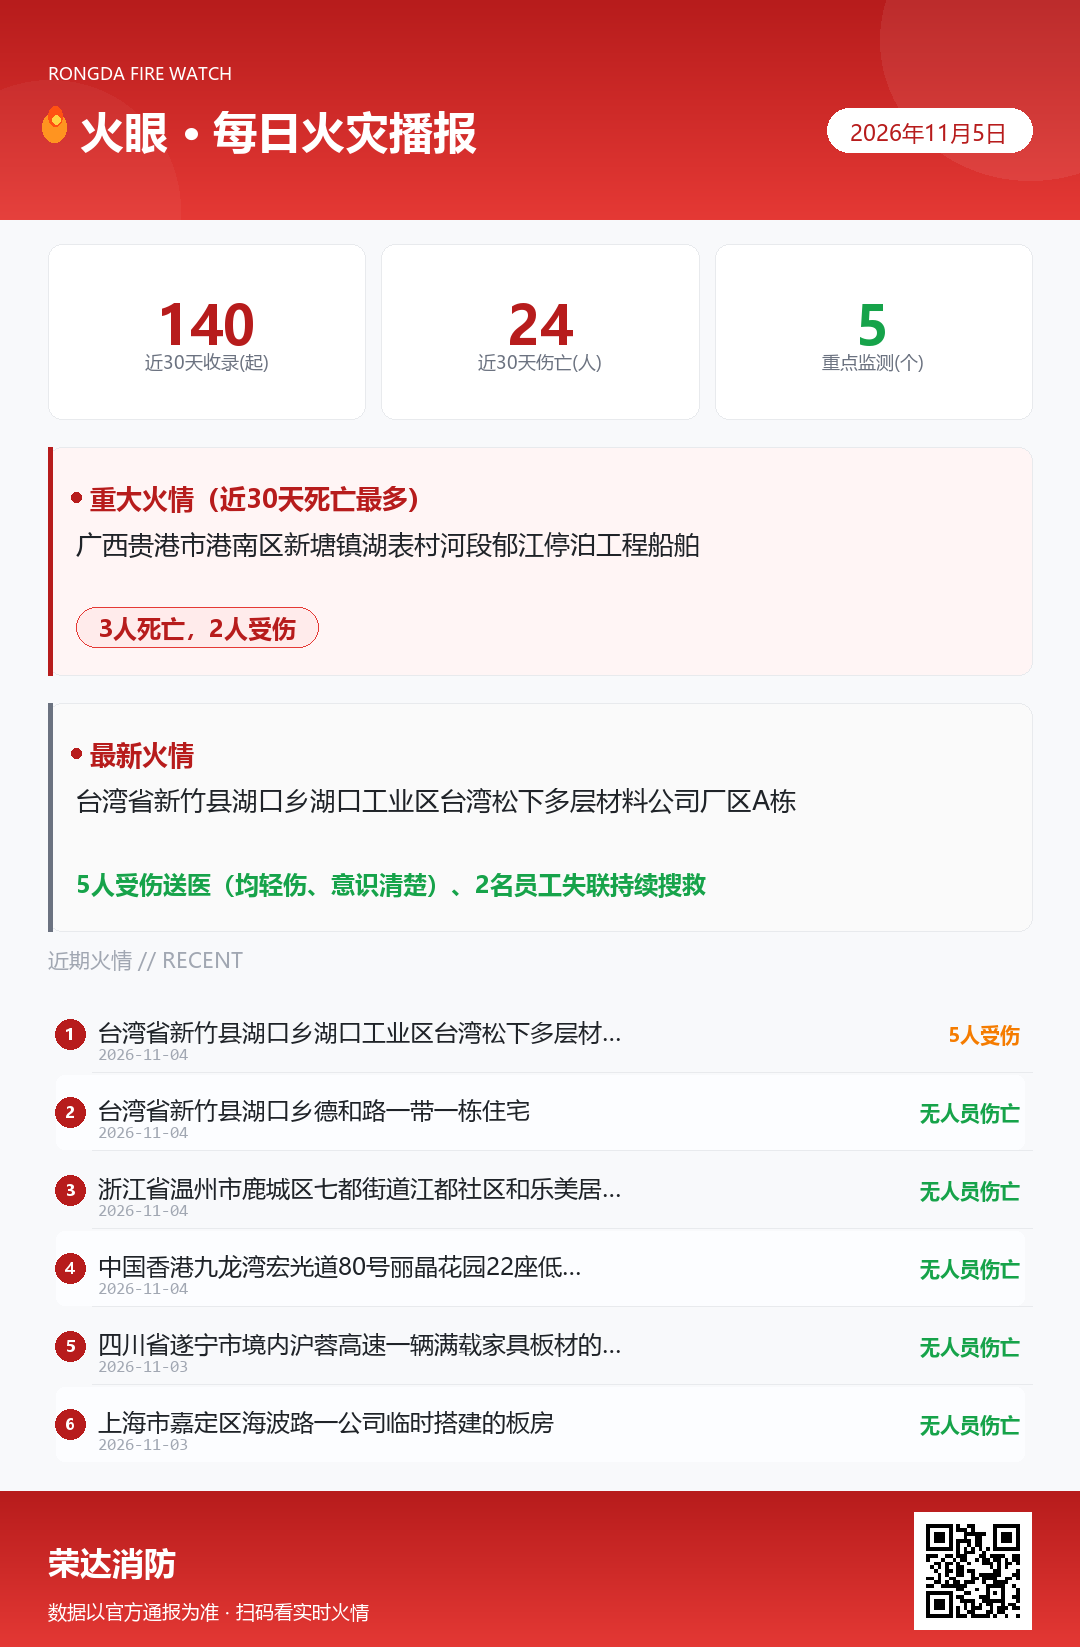
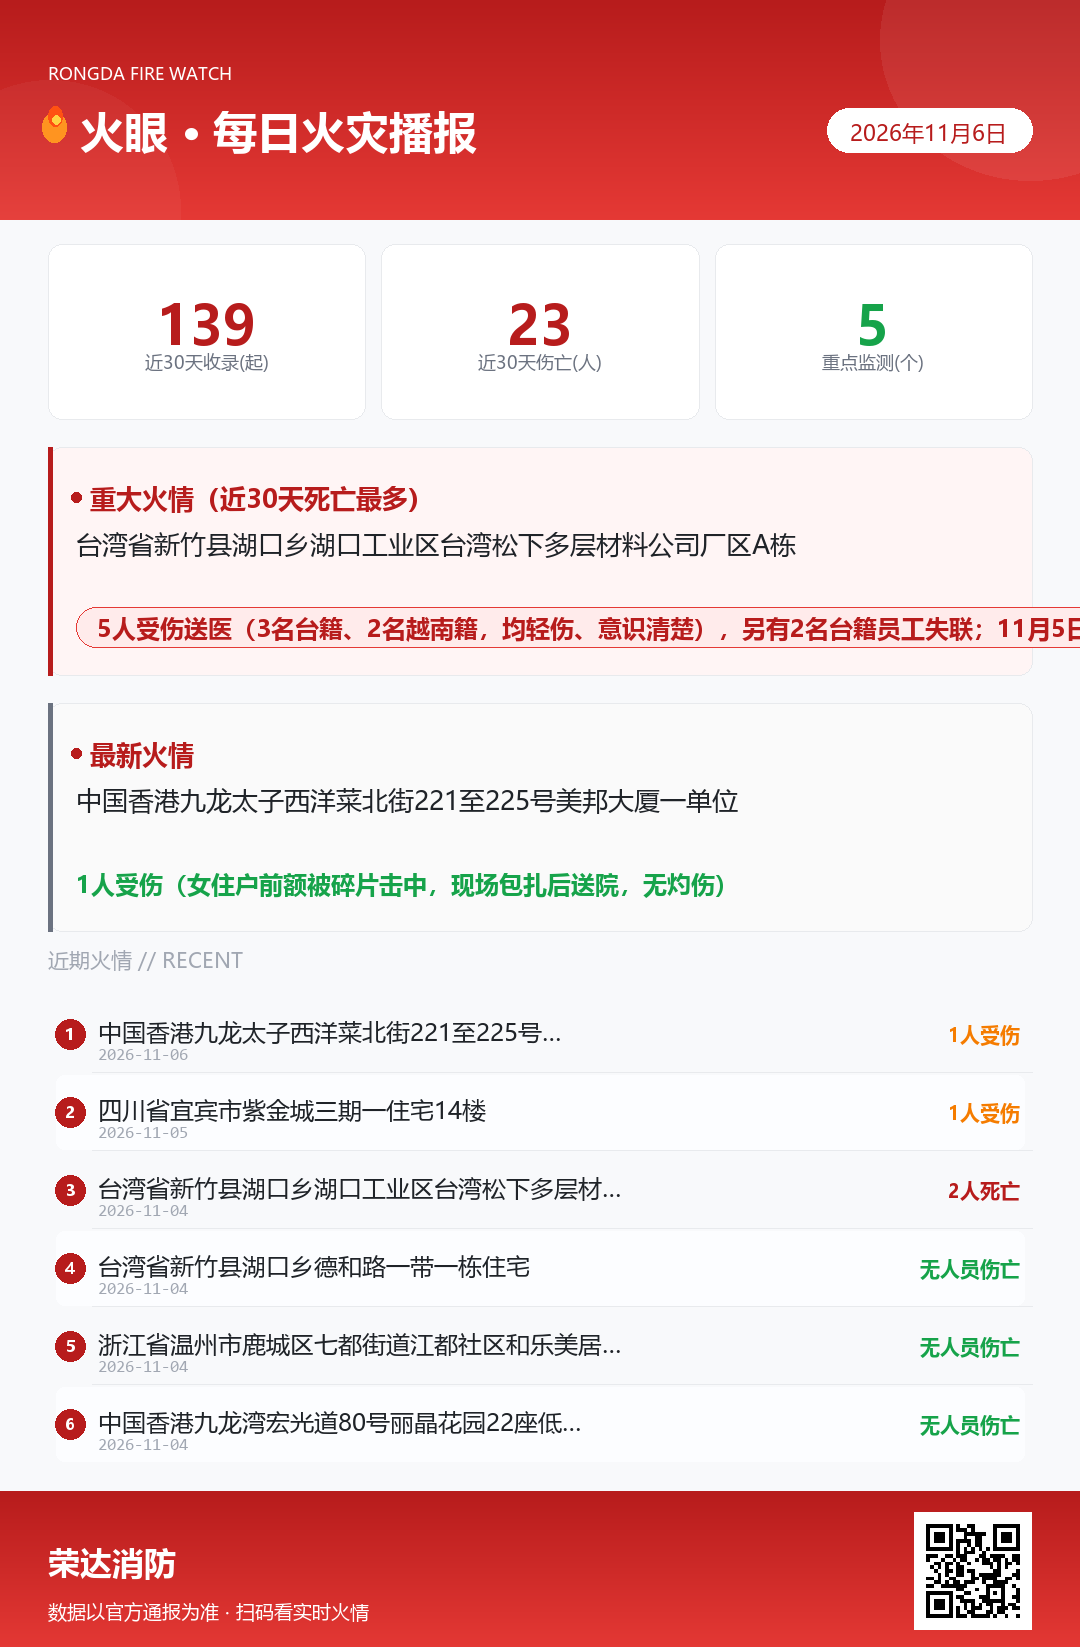
fire-daily-brief 2026-11-06 10:57 roll

diff --git a/index.html b/index.html
@@ -433,10 +433,9 @@
 <body data-page-node-id="ICXkWpuir7NPQq2WkGSUm2">
 
 <!-- ============ DATA（每日自动更新：由自动化脚本重写此对象） ============ -->
-<script id="brief-data" type="application/json">
-{
-  "date": "2026年11月5日",
-  "compileTime": "2026-11-05 11:00",
+<script id="brief-data" type="application/json">{
+  "date": "2026年11月6日",
+  "compileTime": "2026-11-06 10:57",
   "source": "AI 联网检索 · 各地消防救援机构官方通报及权威媒体转载",
   "range": "滚动更新 · 近 30 天",
   "stats": {
@@ -463,13 +462,13 @@
     }
   ],
   "case": {
-    "date": "2026-11-04",
-    "location": "台湾省新竹县湖口乡湖口工业区台湾松下多层材料公司厂区A栋",
-    "category": "工厂/车间",
-    "summary": "11月4日凌晨1时58分，新竹县湖口乡湖口工业区台湾松下多层材料公司厂区A栋1楼、4楼生产线传出爆炸声后起火，火势蔓延致部分建筑坍塌。厂房4楼储存槽有丁酮泄漏，厂内甲醇、甲苯等易燃溶剂密集，燃烧面积逾1万平方米。消防出动80余人及各型装备灌救，因持续传出爆炸声一度撤离，随后调重型机械局部拆除推进搜救，环境部门同步监测周边空气质量。",
-    "casualty": "5人受伤送医（均轻伤、意识清楚）、2名员工失联持续搜救",
-    "cause": "4楼储存槽丁酮泄漏引发爆炸，具体起火点待火调鉴定",
-    "src": "新竹县政府消防局发布（中央社 2026-11-04 报道）"
+    "date": "2026-11-06",
+    "location": "中国香港九龙太子西洋菜北街221至225号美邦大厦一单位",
+    "category": "住宅/民房",
+    "summary": "11月6日上午7时25分，美邦大厦一单位厕所内热水炉起火，一度传出爆炸声。消防接报到场，约13分钟后将火救熄，5名住户自行疏散落楼；机电工程署与煤气公司人员到场协助调查。",
+    "casualty": "1人受伤（女住户前额被碎片击中，现场包扎后送院，无灼伤）",
+    "cause": "疑煤气热水器气体泄漏引发，火警起因待进一步调查",
+    "src": "香港01、东网（2026-11-06）"
   },
   "tips": [
     "住宅类火情近30天39起居首、占三成，电气是主因：浙江嘉兴“九年未拔的老旧电视插头疑线路老化”、绍兴冰箱故障起火、多起排插长期通电与室内电路短路。立冬将至、取暖用电负荷上升，老旧插排和长期通电插头赶紧换，私拉乱接一律整改，人离即断。",
@@ -489,13 +488,31 @@
   ],
   "history": [
     {
+      "date": "2026-11-06",
+      "location": "中国香港九龙太子西洋菜北街221至225号美邦大厦一单位",
+      "category": "住宅/民房",
+      "summary": "11月6日上午7时25分，美邦大厦一单位厕所内热水炉起火，一度传出爆炸声。消防接报到场，约13分钟后将火救熄，5名住户自行疏散落楼；机电工程署与煤气公司人员到场协助调查。",
+      "casualty": "1人受伤（女住户前额被碎片击中，现场包扎后送院，无灼伤）",
+      "cause": "疑煤气热水器气体泄漏引发，火警起因待进一步调查",
+      "src": "香港01、东网（2026-11-06）"
+    },
+    {
+      "date": "2026-11-05",
+      "location": "四川省宜宾市紫金城三期一住宅14楼",
+      "category": "住宅/民房",
+      "summary": "11月5日12时48分，宜宾市消防救援局119指挥中心接到报警，紫金城三期14楼一住宅发生火情。接警后立即调派消防救援力量前往处置，现场明火被扑灭；经初步排查，过火物质为家具等物品。",
+      "casualty": "1人受伤（39岁，男性，已送医救治）",
+      "cause": "起火原因正在进一步调查中",
+      "src": "宜宾市消防救援局火情通报／央视网、澎湃新闻（2026-11-05）"
+    },
+    {
       "date": "2026-11-04",
       "location": "台湾省新竹县湖口乡湖口工业区台湾松下多层材料公司厂区A栋",
       "category": "工厂/车间",
-      "summary": "11月4日凌晨1时58分，新竹县湖口乡湖口工业区台湾松下多层材料公司厂区A栋1楼及4楼生产线传出爆炸声并起火，火势随后蔓延，部分建筑物因爆炸坍塌。消防到场灌救，事发时产线约20人作业，已组织疏散；厂房4楼储存槽有丁酮泄漏，环境部门专业技术小组到场监测空气质量并提示救灾人员注意化学品暴露风险。燃烧面积逾1万平方米，消防出动80余人及云梯车、无人机、消防机器人等装备，因现场一度持续传出爆炸声曾撤离，随后调重型机械局部拆除推进搜救，并部署水线防护避免波及邻近厂房。",
-      "casualty": "5人受伤送医（3名台籍、2名越南籍，均轻伤、意识清楚）、2名员工失联持续搜救",
+      "summary": "11月4日凌晨1时58分，新竹县湖口乡湖口工业区台湾松下多层材料公司厂区A栋1楼及4楼生产线传出爆炸声并起火，火势随后蔓延，部分建筑物因爆炸坍塌。消防到场灌救，事发时产线约20人作业，已组织疏散；厂房4楼储存槽有丁酮泄漏，环境部门专业技术小组到场监测空气质量并提示救灾人员注意化学品暴露风险。燃烧面积逾1万平方米，消防出动80余人及云梯车、无人机、消防机器人等装备，因现场一度持续传出爆炸声曾撤离，随后调重型机械局部拆除推进搜救，并部署水线防护避免波及邻近厂房。11月5日上午调派重型机械自隔壁厂房方向进场开挖清障，接近中午在A栋4楼寻获一具烧焦遗体，随后确认另一名失联员工亦已遇难。",
+      "casualty": "5人受伤送医（3名台籍、2名越南籍，均轻伤、意识清楚），另有2名台籍员工失联；11月5日新竹县消防局确认两名失联员工先后被寻获、均已无生命体征，事故最终造成2人死亡、5人受伤",
       "cause": "4楼储存槽丁酮泄漏引发爆炸，具体起火点及是否涉及电力或锅炉操作异常待火调鉴定",
-      "src": "新竹县政府消防局发布（中央社 2026-11-04 报道）"
+      "src": "新竹县政府消防局发布（中央社 2026-11-04 报道；2026-11-05 后续确认）"
     },
     {
       "date": "2026-11-04",
@@ -3731,8 +3748,7 @@
       "src": "葫芦岛市消防救援局警情通报（经媒体报道）"
     }
   ]
-}
-</script>
+}</script>
 
 <!-- nav -->
 <nav class="nav" data-page-node-id="36xZqpjYtKqVRIAEorBoJT">
